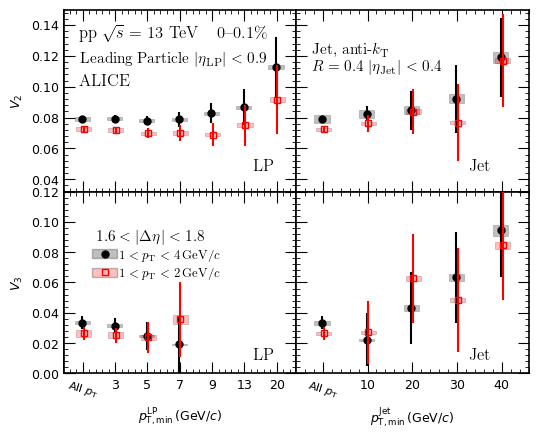
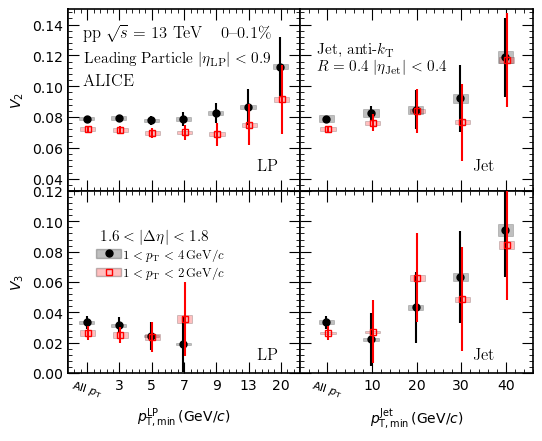
Figure label size adjustments 2.

diff --git a/FIG6_vn_ess.py b/FIG6_vn_ess.py
@@ -71,8 +71,8 @@ plot = JPyPlotRatio.JPyPlotRatio(panels=(nrow,ncol),
 	ratioBounds=rlimits,# for nrow
 	disableRatio=[0,1],
 	panelLabelLoc=(0.07,0.73),panelLabelSize=11,panelLabelAlign="left",
-	tickLabelSize=9,
-	axisLabelSize=9,
+	tickLabelSize=10,
+	axisLabelSize=10,
 	legendPanel=2,
 	legendLoc=(0.40,0.6),legendSize=9,xlabel={0:xtitle[0],1:xtitle[1]},
 	ylabel={0:ytitle[0],1:ytitle[1]});
